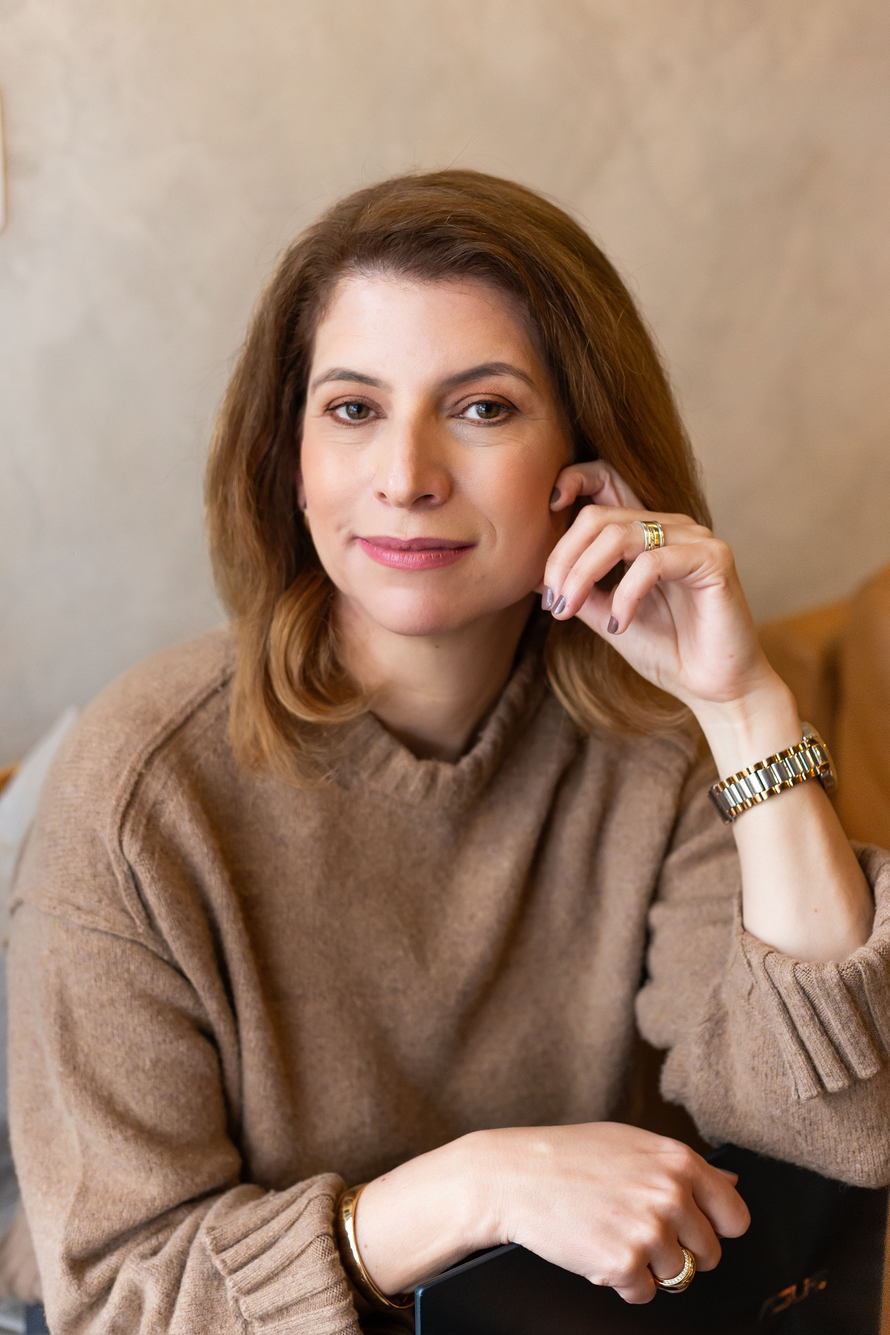
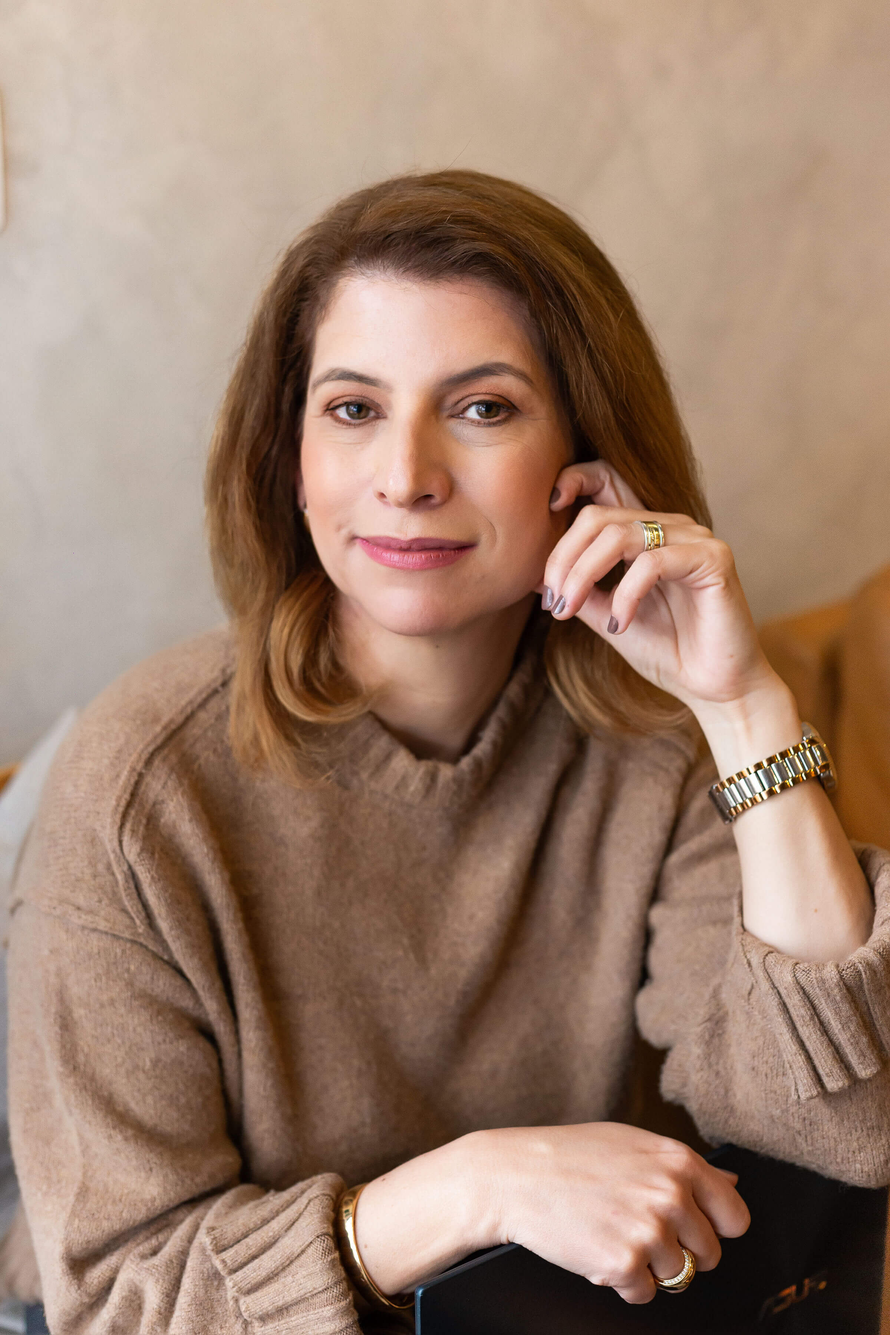
Ajuste de espaçamento, remoção de botões e otimização de imagem

Changed region(s): [[0.875, 0.56, 0.9062, 0.5911], [0.0, 0.9956, 0.0312, 1.0]]

diff --git a/src/App.jsx b/src/App.jsx
@@ -1,4 +1,4 @@
-import React, { useMemo, useState, useEffect } from "react";
+import React, { useMemo, useState, useEffect, useRef } from "react";
 import { 
   ChevronRight, 
   MessageCircle, 
@@ -22,13 +22,19 @@ import {
 const CONFIG = {
   whatsapp: "5541996987079",
   images: {
-    hero: "/Images/quadro.png", 
+    hero: "/Images/IMG_9855.jpg", 
     bio: "/Images/IMG_9413.jpg",
   },
 };
 
+/**
+ * Componente de Imagem Otimizado
+ * Focado em performance e resolução do problema de pixelização.
+ */
 function ImageWithFallback({ src, alt, className }) {
   const [failed, setFailed] = useState(false);
+  const [isLoaded, setIsLoaded] = useState(false);
+  
   if (failed) {
     return (
       <div className={`${className} flex flex-col items-center justify-center bg-slate-100 text-slate-400 border border-slate-200`}>
@@ -39,7 +45,46 @@ function ImageWithFallback({ src, alt, className }) {
       </div>
     );
   }
-  return <img src={src} alt={alt} className={className} loading="lazy" onError={() => setFailed(true)} />;
+
+  return (
+    <div className={`${className} bg-slate-100 relative overflow-hidden`}>
+      <img 
+        src={src} 
+        alt={alt} 
+        onLoad={() => setIsLoaded(true)}
+        className={`w-full h-full object-cover transition-opacity duration-500 ${isLoaded ? 'opacity-100' : 'opacity-0'}`}
+        loading="lazy" 
+        onError={() => setFailed(true)} 
+        style={{
+          imageRendering: 'auto',
+          WebkitBackfaceVisibility: 'hidden',
+          backfaceVisibility: 'hidden',
+          transform: 'translateZ(0)',
+          fontSmoothing: 'antialiased'
+        }}
+      />
+    </div>
+  );
+}
+
+/**
+ * Hook para detetar quando o elemento entra no ecrã (Otimização de Performance)
+ */
+function useOnScreen(ref) {
+  const [isIntersecting, setIntersecting] = useState(false);
+
+  useEffect(() => {
+    const observer = new IntersectionObserver(
+      ([entry]) => setIntersecting(entry.isIntersecting),
+      { threshold: 0.1 }
+    );
+    if (ref.current) {
+      observer.observe(ref.current);
+    }
+    return () => observer.disconnect();
+  }, [ref]);
+
+  return isIntersecting;
 }
 
 const AccordionItem = ({ question, answer }) => {
@@ -65,7 +110,16 @@ const AccordionItem = ({ question, answer }) => {
 const Navbar = () => {
   const [scrolled, setScrolled] = useState(false);
   useEffect(() => {
-    const handleScroll = () => setScrolled(window.scrollY > 20);
+    let ticking = false;
+    const handleScroll = () => {
+      if (!ticking) {
+        window.requestAnimationFrame(() => {
+          setScrolled(window.scrollY > 20);
+          ticking = false;
+        });
+        ticking = true;
+      }
+    };
     window.addEventListener("scroll", handleScroll);
     return () => window.removeEventListener("scroll", handleScroll);
   }, []);
@@ -96,12 +150,17 @@ export default function App() {
   const waLinkBase = `https://wa.me/${CONFIG.whatsapp}?text=`;
   const waLinkMain = waLinkBase + encodeURIComponent("Olá Valúcia, gostaria de entender como aplicar o Raio-X comercial na minha operação.");
   
+  // Refs para animação scroll-reveal
+  const heroRef = useRef();
+  const probRef = useRef();
+  const metodoRef = useRef();
+  
   return (
-    <main className="min-h-screen bg-white font-sans selection:bg-amber-100 selection:text-amber-900">
+    <main className="min-h-screen bg-white font-sans selection:bg-amber-100 selection:text-amber-900 overflow-x-hidden">
       <Navbar />
 
       {/* HERO SECTION */}
-      <section className="relative pt-40 pb-24 md:pt-60 md:pb-40 overflow-hidden bg-[#fcfcfd]">
+      <section ref={heroRef} className="relative pt-40 pb-12 md:pt-60 md:pb-20 overflow-hidden bg-[#fcfcfd]">
         <div className="absolute top-0 right-0 w-[800px] h-[800px] bg-amber-500/[0.03] rounded-full blur-[150px] -z-10 translate-x-1/3 -translate-y-1/3" />
         <div className="max-w-7xl mx-auto px-8 grid md:grid-cols-12 gap-16 items-center">
           <div className="md:col-span-7">
@@ -112,21 +171,11 @@ export default function App() {
               <p className="text-lg md:text-2xl text-slate-600 leading-relaxed max-w-xl mb-10 md:mb-12 font-medium">
                 Descubra por que a falta de condução comercial faz com que boas conversas no WhatsApp não avancem para a decisão de compra.
               </p>
-              <div className="flex flex-col sm:flex-row gap-6">
-                <a href="#problema" className="group inline-flex justify-center items-center gap-4 px-8 md:px-10 py-5 md:py-6 bg-slate-900 text-white font-bold hover:bg-amber-500 transition-all rounded-lg shadow-xl shadow-slate-200 text-center">
-                  Porque o dinheiro fica na mesa
-                  <ArrowRight size={18} className="group-hover:translate-x-2 transition-transform" />
-                </a>
-                <a href={waLinkMain} target="_blank" rel="noreferrer" className="inline-flex justify-center items-center gap-4 px-8 md:px-10 py-5 md:py-6 border border-slate-200 bg-white text-slate-900 font-bold hover:bg-slate-50 transition-all rounded-lg text-center">
-                  <MessageCircle size={20} className="text-emerald-500" />
-                  Falar no WhatsApp
-                </a>
-              </div>
             </div>
           </div>
           <div className="md:col-span-5 relative group mt-12 md:mt-0">
             <div className="relative z-10 overflow-hidden rounded-2xl border-8 border-white shadow-2xl transition-transform duration-700 group-hover:scale-[1.01]">
-              <ImageWithFallback src={heroImage} alt="Valúcia Furtado" className="w-full aspect-[3/4] object-cover transition-all duration-1000" />
+              <ImageWithFallback src={heroImage} alt="Valúcia Furtado" className="w-full aspect-[3/4]" />
             </div>
             <div className="absolute -bottom-6 -left-6 w-32 h-32 border-b-4 border-l-4 border-amber-500/20 rounded-bl-3xl -z-10" />
           </div>
@@ -134,7 +183,7 @@ export default function App() {
       </section>
 
       {/* SECÇÃO PROBLEMA */}
-      <section id="problema" className="py-24 md:py-48 bg-[#161a23] border-y border-white/5">
+      <section id="problema" ref={probRef} className="pt-12 pb-24 md:pt-20 md:pb-48 bg-[#161a23] border-y border-white/5">
         <div className="max-w-7xl mx-auto px-8 text-white">
           <div className="grid md:grid-cols-2 gap-12 md:gap-20 items-end mb-16 md:mb-24">
             <div>
@@ -165,8 +214,8 @@ export default function App() {
         </div>
       </section>
 
-      {/* SECÇÃO O RAIO-X (Texto Fiel) */}
-      <section id="metodo" className="py-24 md:py-40 bg-white relative overflow-hidden">
+      {/* SECÇÃO O RAIO-X */}
+      <section id="metodo" ref={metodoRef} className="py-24 md:py-40 bg-white relative overflow-hidden">
         <div className="max-w-7xl mx-auto px-8 relative z-10">
           <div className="text-center max-w-4xl mx-auto mb-20 md:mb-32">
             <span className="text-slate-400 font-black uppercase tracking-[0.4em] text-[10px] mb-6 block">O MÉTODO</span>
@@ -176,7 +225,7 @@ export default function App() {
             <div className="w-24 h-1 bg-amber-500 mx-auto rounded-full mt-10" />
           </div>
 
-          <div className="grid md:grid-cols-3 gap-12 md:gap-8 relative">
+          <div className="grid md:grid-cols-3 gap-12 md:gap-8 relative mb-16 md:mb-24">
             {[
               { 
                 icon: <FileSearch className="w-8 h-8" />, 
@@ -205,6 +254,13 @@ export default function App() {
               </div>
             ))}
           </div>
+
+          <div className="text-center">
+            <a href={waLinkMain} target="_blank" rel="noreferrer" className="group inline-flex justify-center items-center gap-4 px-8 md:px-12 py-5 md:py-6 bg-slate-900 text-white font-bold hover:bg-amber-500 transition-all rounded-xl shadow-xl shadow-slate-100 text-center text-lg md:text-xl">
+              Quero aplicar o Raio-X na minha operação
+              <ArrowRight size={20} className="group-hover:translate-x-2 transition-transform" />
+            </a>
+          </div>
         </div>
       </section>
 
@@ -226,7 +282,7 @@ export default function App() {
               { icon: <MonitorPlay size={28} />, title: "Sessão Executiva", desc: "Interpretação dos achados e definição de prioridades imediatas de ação." },
               { icon: <Droplets size={28} />, title: "Mapa de Vazamento", desc: "Diagnóstico técnico que revela onde a receita escorre durante a conversa e por que a venda não se concretiza." },
               { icon: <Gauge size={28} />, title: "Índice de Maturidade", desc: "Indicador técnico que mede o nível de evolução comercial da operação." },
-              { icon: <MessageCircleOff size={28} />, title: "Objeções Críticas", desc: "Leitura estruturada das objeções recorrentes e como contorná-las." }
+              { icon: <MessageCircleOff size={28} />, title: "Objeções Críticas", desc: "Leitura estruturada das objeções recorrentes e como contorná-los." }
             ].map((item, i) => (
               <div key={i} className="p-8 md:p-10 border border-slate-100 rounded-2xl bg-white hover:shadow-2xl transition-all group">
                 <div className="w-14 h-14 bg-slate-50 text-amber-600 rounded-lg shadow-sm flex items-center justify-center mb-6 md:mb-8 group-hover:bg-amber-500 group-hover:text-white transition-all">{item.icon}</div>
@@ -240,7 +296,7 @@ export default function App() {
 
       {/* BIO SECTION */}
       <section id="sobre" className="py-24 md:py-48 bg-[#0f1218] relative overflow-hidden">
-        <div className="max-w-7xl mx-auto px-8">
+        <div className="max-w-7xl mx-auto px-8 relative z-10">
           <div className="mb-12 md:mb-24 reveal">
             <span className="text-amber-400 font-black uppercase tracking-[0.4em] text-[10px] mb-6 block">Quem analisa o seu time</span>
             <h2 className="text-3xl md:text-6xl lg:text-7xl font-black leading-[1.1] tracking-tighter text-white max-w-5xl">
@@ -251,7 +307,7 @@ export default function App() {
           <div className="grid md:grid-cols-12 gap-12 md:gap-24 items-start">
             <div className="md:col-span-5 relative">
               <div className="aspect-[4/5] overflow-hidden rounded-3xl border border-white/10 shadow-2xl">
-                <ImageWithFallback src={bioImage} alt="Valúcia Furtado" className="w-full h-full object-cover" />
+                <ImageWithFallback src={bioImage} alt="Valúcia Furtado" className="w-full h-full" />
               </div>
               <div className="absolute -bottom-8 -right-8 bg-amber-500 p-6 md:p-8 rounded-2xl shadow-2xl hidden lg:block text-slate-950">
                 <p className="text-3xl md:text-4xl font-black leading-none">15+</p>
@@ -289,7 +345,7 @@ export default function App() {
               { q: "Já usamos ferramentas de WhatsApp e CRM. Ainda faz sentido?", a: "Sim. Ferramentas organizam fluxo e dados. A análise observa comportamento, linguagem e direção da conversa." },
               { q: "Em quanto tempo os resultados da análise ficam claros?", a: "A clareza costuma surgir já na devolutiva executiva, quando os padrões de condução e os pontos de vazamento de faturamento se tornam evidentes." },
               { q: "Isso serve para qualquer tipo de empresa?", a: "A análise é indicada para operações em que o WhatsApp é um canal relevante de venda e que contam com equipes a partir de três vendedores." },
-              { q: "O que acontece depois da análise?", a: "Com os achados consolidados, é construído um direcionamento claro de ação, com prioridades definidas e recomendações práticas sobre o que ajustar na condução das vendas." }
+              { q: "O que acontece depois da análise?", a: "Com os achados consolidados, é construído um dicionamento claro de ação, com prioridades definidas e recomendações práticas sobre o que ajustar na condução das vendas." }
             ].map((item, idx) => (
               <AccordionItem key={idx} question={item.q} answer={item.a} />
             ))}
@@ -299,7 +355,7 @@ export default function App() {
 
       {/* CTA FINAL */}
       <section id="contato" className="bg-white text-slate-900 py-24 md:py-48 relative overflow-hidden text-center">
-        <div className="max-w-5xl mx-auto px-8 relative z-10">
+        <div className="max-w-5xl mx-auto px-8 relative z-10 text-center space-y-12">
           <div className="reveal">
             <h2 className="text-4xl md:text-6xl font-black tracking-tight leading-tight mb-8">Transforme conversas em <span className="text-amber-500 underline decoration-amber-500/10 underline-offset-[12px]">faturamento</span></h2>
             <p className="mt-6 text-slate-600 text-lg md:text-3xl leading-relaxed max-w-2xl mx-auto font-medium mb-12 md:mb-16">
@@ -314,14 +370,14 @@ export default function App() {
       </section>
 
       <footer className="py-16 md:py-20 bg-slate-50 border-t border-slate-100 text-center">
-        <div className="text-[10px] font-black tracking-[0.5em] text-slate-300 uppercase mb-6">Valúcia Furtado</div>
+        <div className="text-[10px] font-black tracking-[0.5em] text-slate-300 uppercase mb-4">Valúcia Furtado</div>
         <p className="text-slate-400 text-[10px] font-bold uppercase tracking-widest">© {new Date().getFullYear()} — Consultoria de Estratégia Comercial</p>
       </footer>
       
       <style dangerouslySetInnerHTML={{ __html: `
         html { scroll-behavior: smooth; }
-        .reveal { animation: reveal 1.5s cubic-bezier(0.16, 1, 0.3, 1) forwards; }
-        @keyframes reveal { from { opacity: 0; transform: translateY(40px); } to { opacity: 1; transform: translateY(0); } }
+        .reveal { animation: reveal 0.8s cubic-bezier(0.16, 1, 0.3, 1) forwards; opacity: 0; }
+        @keyframes reveal { from { opacity: 0; transform: translateY(20px); } to { opacity: 1; transform: translateY(0); } }
       `}} />
     </main>
   );
